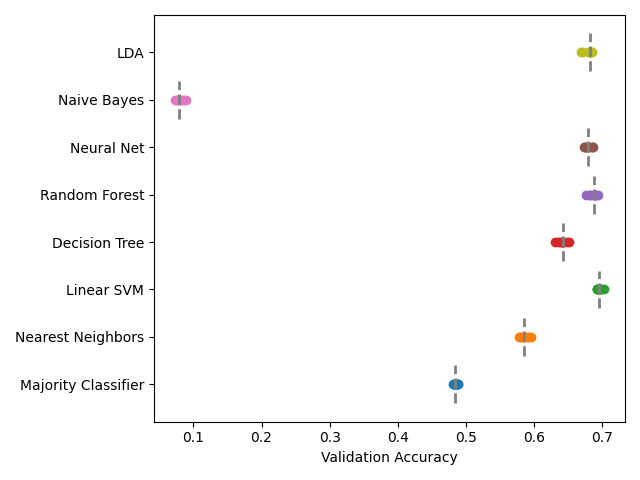
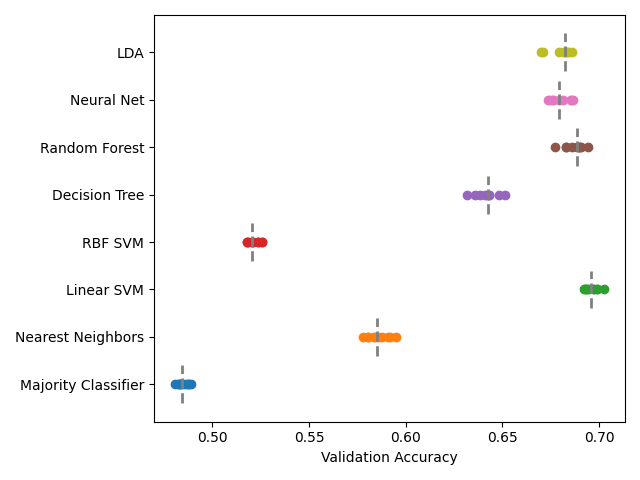
wrote split functions for random, entropy, chi

diff --git a/decision_tree.py b/decision_tree.py
@@ -1,7 +1,42 @@
 import numpy as np
+import pandas as pd
 
 from scipy.stats import entropy
 from sklearn.feature_selection import chi2
+from sklearn.preprocessing import OneHotEncoder
+
+
+def split_by_random(x, y):
+    n = x.shape[1]
+    return np.random.randint(1, n)
+
+def split_by_entropy(x, y):
+    # search for decision rule with minimum entropy
+    min_entropy = np.Inf
+
+    # iterate over decision rules in a random order for 
+    # variation when there are ties in minimum entropy
+    rand_order = np.random.permutation(np.arange(x.shape[1]))
+    for i in rand_order:
+        vect = x[:,i]
+        # grab indices where decision rule is true
+        index = vect == 1
+        # find the probability for each outcome where the decision rule is true
+        probabilities = np.sum(y[index], axis=0) / np.sum(index)
+        # calculate entropy using a scipy package
+        e = entropy(probabilities, base=2)
+        
+        if e < min_entropy:
+            min_entropy = e
+            decision_split = i
+
+    return decision_split, min_entropy
+
+def split_by_chi(x, y):
+    # convert y from (n_samples, n_classes) into (n_samples,)
+    # essentially a conversion from onehot to integer-hot
+    y = y @ np.arange(y.shape[1])
+    return chi2(x, y)
 
 class Node():
 
@@ -17,8 +52,7 @@ class Node():
         self.majority_class = majority_class # stores majority class prediction as column #
 
 class Decision_Tree():
-    def __init__(self, split_type="random", max_features=np.Inf, max_depth = np.Inf,
-                epsilon=0.0, continuous_mask = None):
+    def __init__(self, split_type="random", max_features=np.Inf, max_depth = np.Inf, epsilon=0.0):
         '''
         Parameters
         ----------
@@ -48,20 +82,28 @@ class Decision_Tree():
         self.num_leaves = 0
 
 
-    def fit(self, x: np.array, y: np.array, continuous_mask = None):
+    def fit(self, x: np.array, y: np.array):
         """
         Creates a Decision Tree with the TDIDT algorithm using the provided features and targets.
 
         Parameters
         ----------
-        features : pd.DataFrame
-            The input features for training, with each row representing a sample and each column a feature.
-        targets : pd.Series
-            The target values for each sample in the training data.
-        continuous_mask : list[bool]
-            A bitmask declaring which features are continuous (1) and which are categorical (0)
+        features : np.array
+            It is assumed onehotting has been performed and all features are categorical.
+            Continuous data can be binned using KBinsDiscretizer
+        targets : np.array
+            The target values for each sample in the training data. Onehotted and categorical.
         """
 
+        # find decision split
+        criterion = {
+            "random" : split_by_random,
+            "entropy" : split_by_entropy,
+            "chi2" : split_by_chi,
+        }
+        # 2. select a attribute of features to split on
+        split_function = criterion.get(self.split_type)
+        split_column = split_function(x, y)
 
 
     def traverse_tree(self, features, targets, node: 'Node'):
@@ -72,3 +114,12 @@ class Decision_Tree():
         
         # TODO: interprete node.rule & node.majority_class to create a formatted rule
     
+data = pd.read_csv("data/test.csv").to_numpy()[:,:-1]
+num_classes = len(np.unique(data[:,-1]))
+encoder = OneHotEncoder(sparse_output=False)
+data = encoder.fit_transform(data)
+x = data[:,:-num_classes]
+y = data[:,-num_classes:]
+
+chi, vals = split_by_chi(x,y)
+print(np.max(vals))

diff --git a/categorized_line_plot.py b/categorized_line_plot.py
@@ -15,7 +15,7 @@ if __name__ == '__main__':
     '''
     eval_set = 'Validation'
     data = pd.read_csv("all_classifiers/Shelter_Outcome_bs=1.7_save.csv", index_col=0) # 15,000 train & val
-    # data = data.iloc[[0,1,2,3,4,5,7]]
+    data = data.iloc[[0,1,2,3,4,5,6,8]]
     
     val_data = data.map(lambda x: float(x.strip("()").split(",")[0]))
     test_data = data.map(lambda x: float(x.strip("()").split(",")[1]))

diff --git a/data_mining_decision_tree.py b/data_mining_decision_tree.py
@@ -340,6 +340,7 @@ class Decision_Tree():
         children = [None] * len(branches)
         tree = Node(attribute, majority_class, dict(zip(branches, children)), parent, disc_split)
 
+        # loop through all branches
         for b, f, t in zip(branches, split_features, split_targets):
             self.num_branches += 1
 
